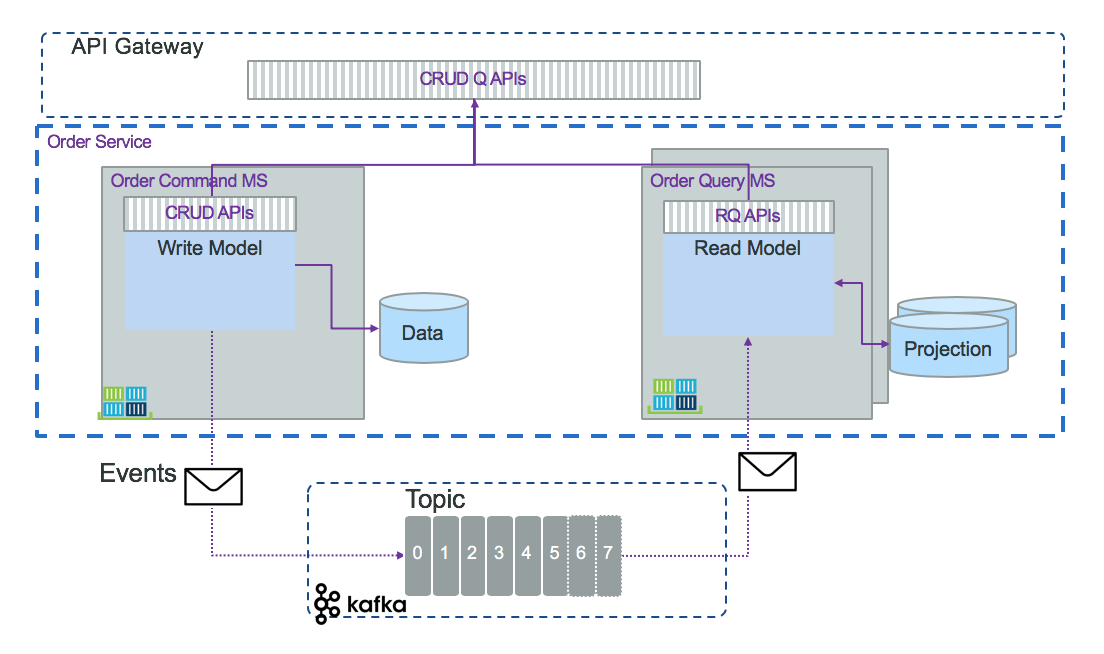
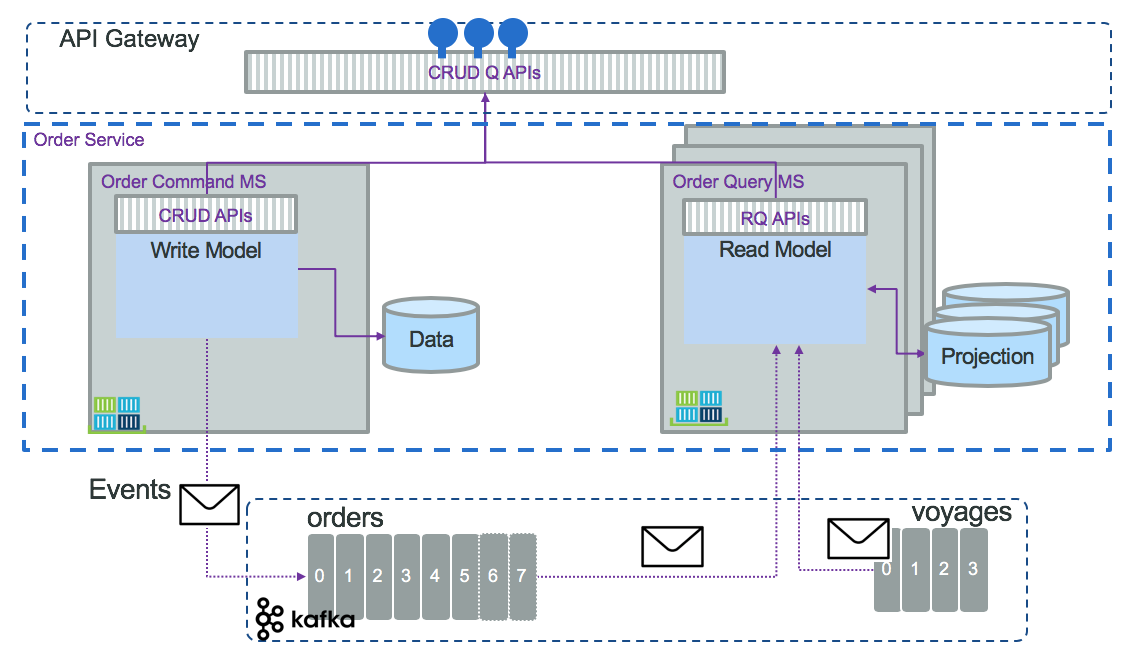
Change diagrams

diff --git a/README.md b/README.md
@@ -117,7 +117,7 @@ Command Query Responsibility Segregation, CQRS, separates the read from the writ
 
 ![](docs/cqrs.png)
 
-The service exposes CUD operations, some basic Read by Id and then queries APIs. The domain model is splitted into write and read models. Combined with Event Sourcing the write model goes to the event store. Then we have a separate process that consumes those events and build a projection for future queries. The write part can persist in SQL while the read could use Cassandra, they do not need to be in the same language. With CQRS amd ES the projecttions are retroactive. New query equals implementing new projection and read the events from the beginning of time or the recent snapshot. Read and write models are strongly decoupled anc can evolve independently. It is important to note that the Command part can still handle simple queries, primary-key based, like get order by id, or queries that do not involve joins.
+The service exposes CUD operations, some basic Read by Id and then queries APIs. The domain model is splitted into write and read models. Combined with Event Sourcing the write model goes to the event store. Then we have a separate process that consumes those events and build a projection for future queries. The write part can persist in SQL while the read could use document oriented database with strong indexing and query capability, they do not need to be in the same language. With CQRS amd ES the projections are retroactives. New query equals implementing new projection and read the events from the beginning of time or the recent snapshot. Read and write models are strongly decoupled anc can evolve independently. It is important to note that the Command part can still handle simple queries, primary-key based, like get order by id, or queries that do not involve joins.
 
 With this structure the Read model microservice will most likely consume events from multiple topics to build the data projection based on joining those data. A query to assess if the cold-chain was respected on the fresh food order shipment will go to the voyage, container metrics, and order to be able to answer this question. This is in this case that CQRS shine.
 
@@ -127,7 +127,7 @@ A second view of the previous diagram presents how we can separate the AI defini
 
 The CQRS pattern was introduced by [Greg Young](https://www.youtube.com/watch?v=JHGkaShoyNs), https://martinfowler.com/bliki/CQRS.html https://microservices.io/patterns/data/cqrs.html
 
-As soon as we see two arrows from the same component we have to ask ourselves how does it work: the write model has to persist Order in its own database and then send OrderCreated event to the topic... Should those operations be atomic?
+As soon as we see two arrows from the same component we have to ask ourselves how does it work: the write model has to persist Order in its own database and then send OrderCreated event to the topic... Should those operations be atomic and controlled with transaction?
 
 ### The consistency challenge
 
